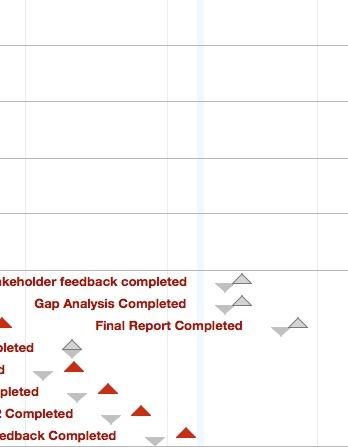
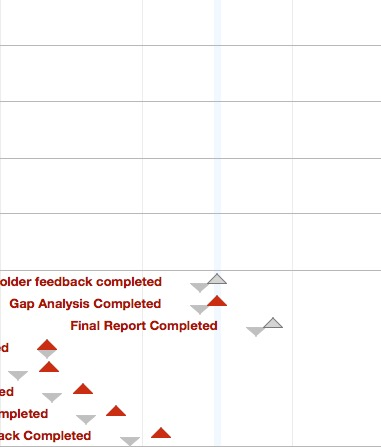
November 16 update
Currently: library wide review & final report.

diff --git a/task.html b/task.html
@@ -359,7 +359,7 @@
                 <td>10/12/17</td>
                 <td>11/15/17</td>
                 <td>1mo 1w 3d</td>
-                <td>6%</td>
+                <td>45%</td>
                 <td>9, 11.3</td>
                 <td></td>
                 <td>9/22/17</td>
@@ -387,7 +387,7 @@
                 <td>11/15/17</td>
                 <td>11/22/17</td>
                 <td>1w 1d 2h</td>
-                <td>50%</td>
+                <td>100%</td>
                 <td>12.4</td>
                 <td></td>
                 <td>11/6/17</td>
@@ -401,7 +401,7 @@
                 <td>11/15/17</td>
                 <td>11/15/17</td>
                 <td></td>
-                <td>0%</td>
+                <td>100%</td>
                 <td></td>
                 <td></td>
                 <td>11/6/17</td>
@@ -429,7 +429,7 @@
                 <td>6/1/17</td>
                 <td>7/31/17</td>
                 <td>2mo 1w 3d 3.875h</td>
-                <td>18%</td>
+                <td>100%</td>
                 <td></td>
                 <td></td>
                 <td>6/1/17</td>
@@ -443,7 +443,7 @@
                 <td>7/31/17</td>
                 <td>7/31/17</td>
                 <td></td>
-                <td>0%</td>
+                <td>100%</td>
                 <td>16</td>
                 <td></td>
                 <td>7/31/17</td>
@@ -456,6 +456,6 @@
         </div><!-- end table wrap -->
 	</div>
     </div><!-- end contentwrap -->
-	 <p class="exported">Exported 10/23/17</p>
+	 <p class="exported">Exported 11/16/17</p>
 </body>
 </html>

diff --git a/index.html b/index.html
@@ -25,8 +25,8 @@
 			<p class="number"><span class="data-missing">None</span></p>
 		</div>
 		<div id="completed" class="box">
-			<h2><span class="number">80%</span> Completed</h2>
-			<div id="bar"><div id="fill" style="width:80%;"></div></div>
+			<h2><span class="number">91%</span> Completed</h2>
+			<div id="bar"><div id="fill" style="width:91%;"></div></div>
 			<p><span class="label">Start:</span> 10/24/16</p>
 			<p><span class="label">End Date:</span> 12/19/17</p>
 			<p><span class="label">Variance:</span> 1w 3d 1h</p>
@@ -53,7 +53,7 @@
                 <td>10/24/16</td>
                 <td>12/19/17</td>
                 <td>&lt; 7mo 3w 3d 3.75h</td>
-                <td>67%</td>
+                <td>86%</td>
                 <td></td>
             </tr>
             
@@ -62,7 +62,7 @@
                 <td>11/22/16</td>
                 <td>11/22/17</td>
                 <td>&gt; 4mo 1w 4d 5.25h</td>
-                <td>79%</td>
+                <td>88%</td>
                 <td></td>
             </tr>
             
@@ -231,6 +231,6 @@
        
             </div><!-- end content-->
 	</div><!-- end contentwrap -->
-	 <p class="exported">Exported 10/23/17</p>
+	 <p class="exported">Exported 11/16/17</p>
 
 </body>	

diff --git a/gantt.html b/gantt.html
@@ -23,17 +23,17 @@
 	<h1>Strategic Systems Analysis: Gantt Chart</h1>
 		<div class="tablewrap"><table border="0" cellspacing="0" cellpadding="0">
 <tr>
-	<td><img src="include/gantt0,0.jpg?nocacheTag=-626774869" border=0/></td>
-	<td><img src="include/gantt1,0.jpg?nocacheTag=1791982972" border=0/></td>
+	<td><img src="include/gantt0,0.jpg?nocacheTag=435670643" border=0/></td>
+	<td><img src="include/gantt1,0.jpg?nocacheTag=-23929682" border=0/></td>
 </tr>
 <tr>
-	<td><img src="include/gantt0,1.jpg?nocacheTag=602997417" border=0/></td>
-	<td><img src="include/gantt1,1.jpg?nocacheTag=-1020801898" border=0/></td>
+	<td><img src="include/gantt0,1.jpg?nocacheTag=1619757179" border=0/></td>
+	<td><img src="include/gantt1,1.jpg?nocacheTag=2132862613" border=0/></td>
 </tr>
 </table>
 </div>
 		</div>
 	</div><!-- end contentwrap -->
-	 <p class="exported">Exported 10/23/17</p>
+	 <p class="exported">Exported 11/16/17</p>
 
 </body>	
